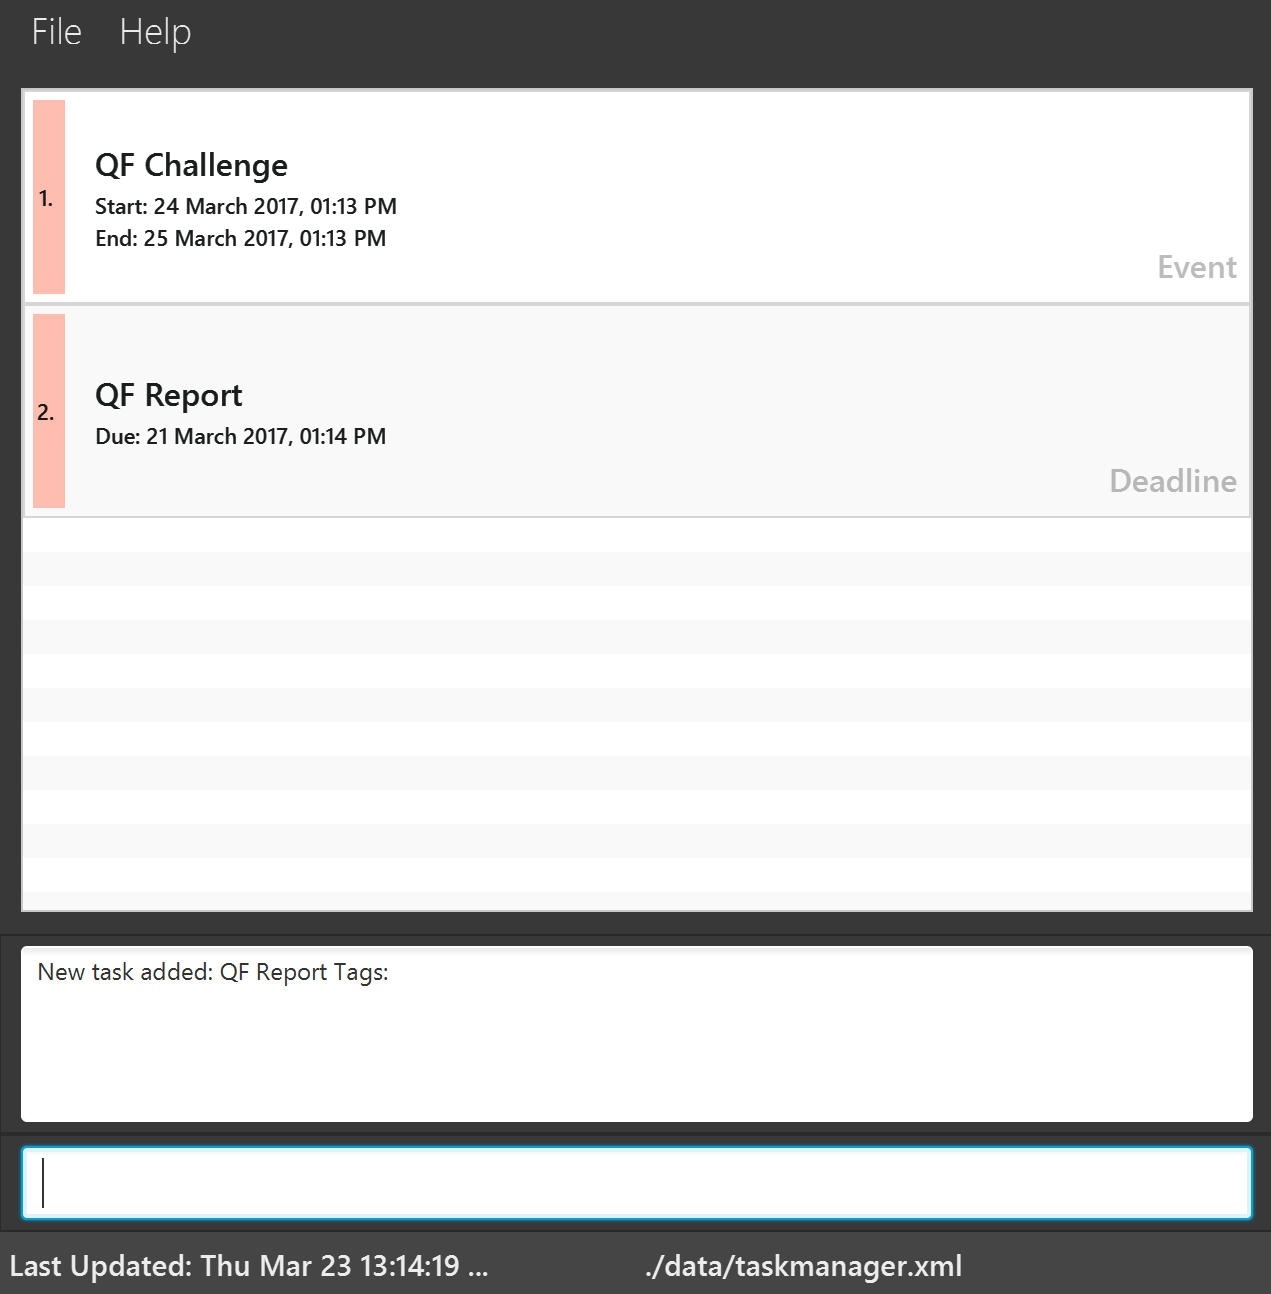
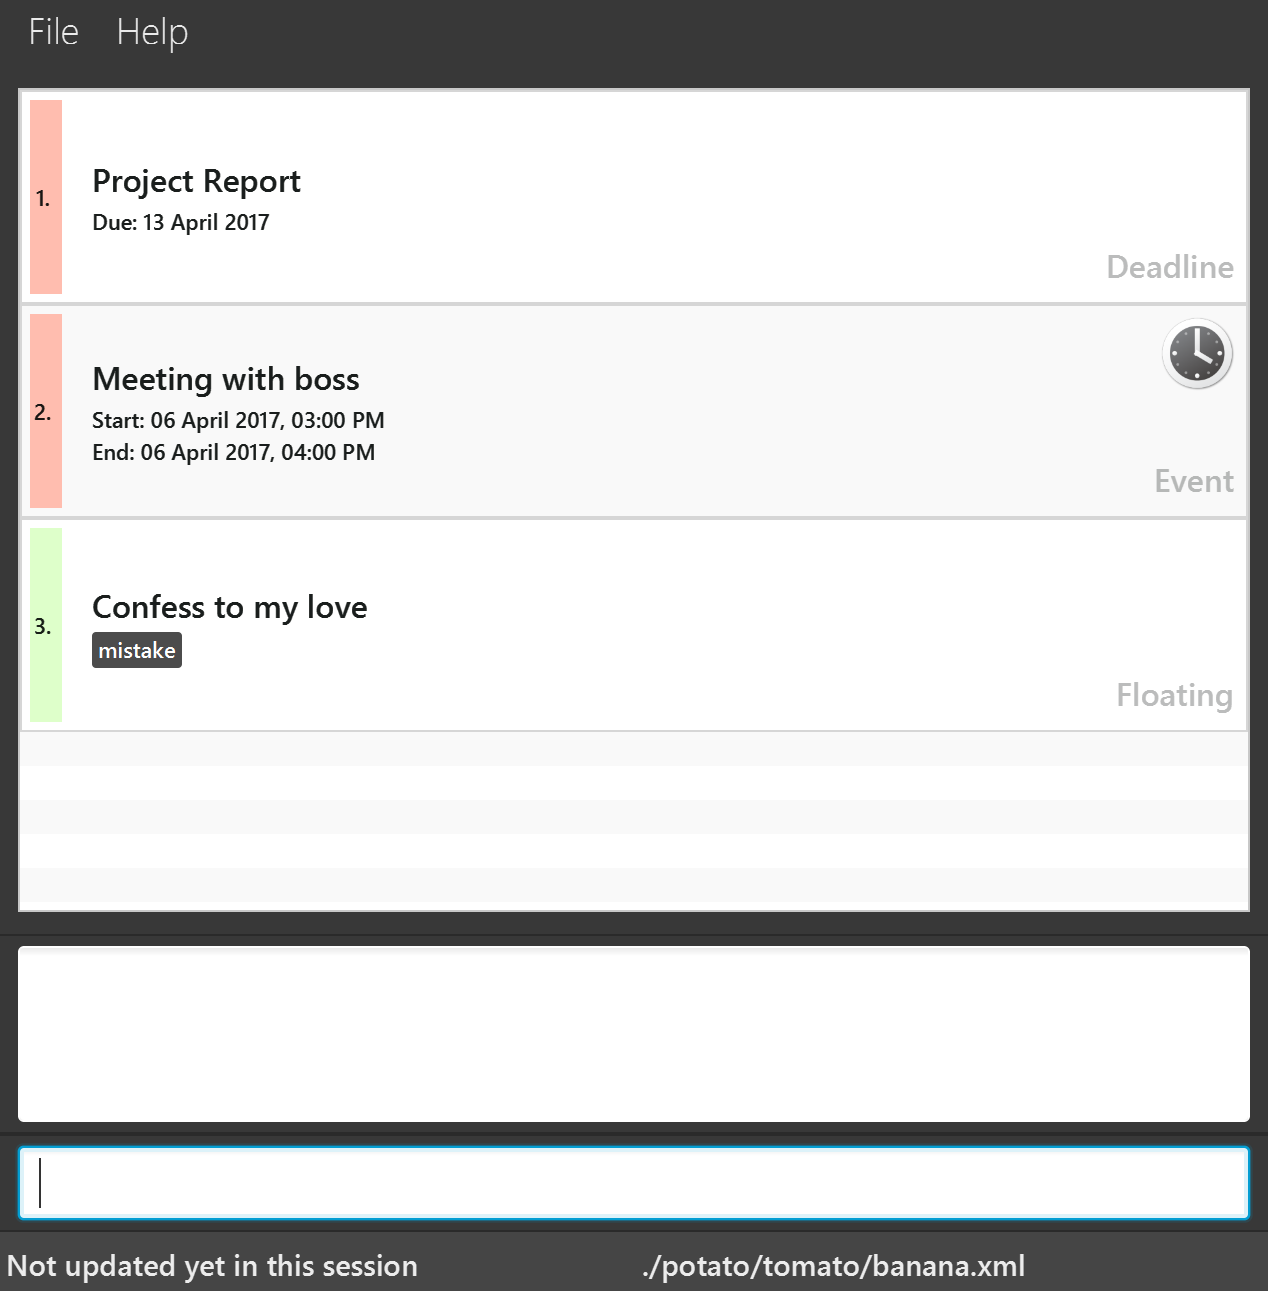
Documentations for UI

diff --git a/docs/DeveloperGuide.md b/docs/DeveloperGuide.md
@@ -77,6 +77,8 @@ By : `CS2103JAN2017-T15-B3`  &nbsp;&nbsp;&nbsp;&nbsp; Since: `Feb 2017`  &nbsp;&
 
 ### 2.1. Architecture
 
+**Author: Neo Wei Jie, Esmond**
+
 <img src="images/Architecture.png" width="600"><br>
 _Figure 2.1.1 : Architecture Diagram_
 
@@ -145,7 +147,7 @@ _Figure 2.2.1 : Structure of the UI Component_
 **API** : [`Ui.java`](../src/main/java/seedu/address/ui/Ui.java)
 
 The UI consists of a `MainWindow` that is made up of parts e.g.`CommandBox`, `ResultDisplay`, `TaskListPanel`,
-`StatusBarFooter`, `BrowserPanel` etc. All these, including the `MainWindow`, inherit from the abstract `UiPart` class.
+`StatusBarFooter` etc. All these, including the `MainWindow`, inherit from the abstract `UiPart` class.
 
 The `UI` component uses JavaFx UI framework. The layout of these UI parts are defined in matching `.fxml` files
  that are in the `src/main/resources/view` folder.<br>
@@ -158,7 +160,10 @@ The `UI` component,
 * Binds itself to some data in the `Model` so that the UI can auto-update when data in the `Model` change.
 * Responds to events raised from various parts of the App and updates the UI accordingly.
 
-For the TaskCard, an additional `TaskCardStyle` class is used to colour code the card. It will be red if the task is undone, and green if the task is completed.
+<img src="images/sampleTaskCard.png" width="800"><br>
+_Figure 2.2.2 : Sample Task Card_
+
+For `TaskCard`, an additional `TaskCardStyle` class is used to colour code the card. It will be red if the task is undone, and green if the task is completed. `TaskCard` will also show a clock icon if it is within a user-configurable time-frame.
 
 ### 2.3. Logic component
 
